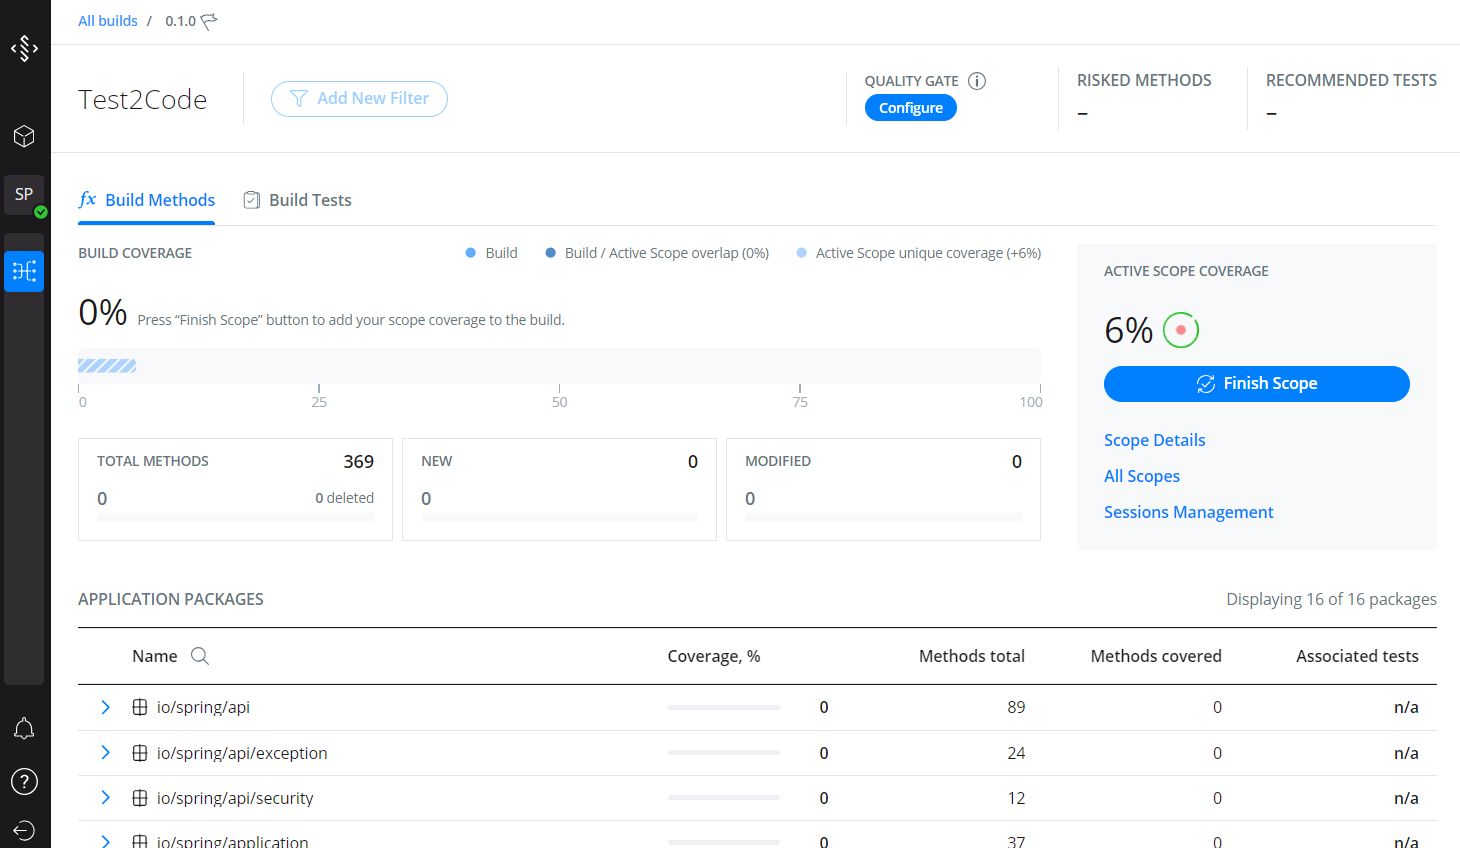
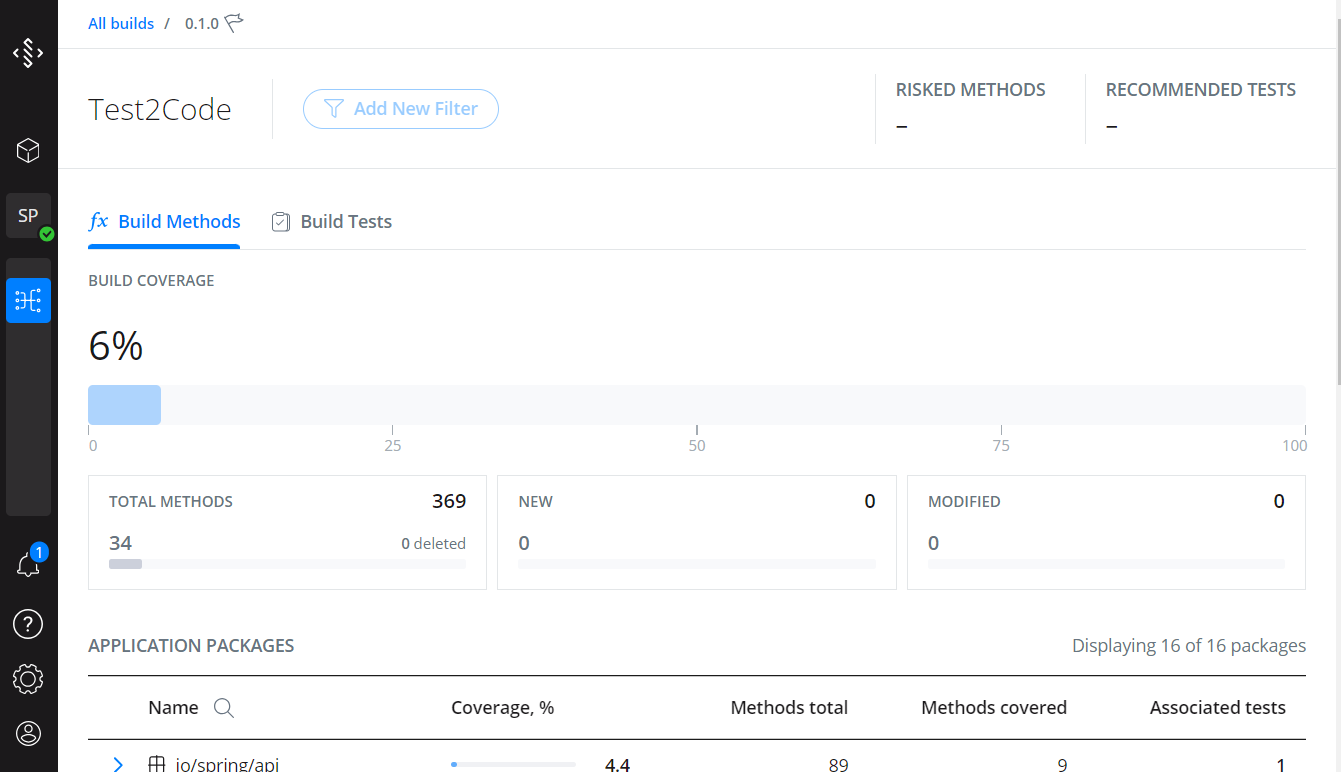
feature: update to initial auth impl release

diff --git a/README.md b/README.md
@@ -68,7 +68,7 @@ cd realworld-java-and-js-coverage
     Example application is available at http://localhost:8080 (wait a few seconds for it to become available)
     ```
 
-    > If your internet connection is too slow example app start might fail.
+    > If your internet connection is too slow, example application might fail to start.
     > 
     > Simply wait for script to finish downloading dependencies
     > 
@@ -81,21 +81,20 @@ cd realworld-java-and-js-coverage
 
 3. Open [Drill4J Admin Panel](http://localhost:8091)
 
-4. You should be greeted with "Welcome to Drill4J" page and a login form. Press "Continue as guest (width admin rights)"
+4. You should be greeted with "Welcome to Drill4J" page and a login form.
 
-    ![login form](./img/image.png)
+    - Enter `admin` in both username and password fields
+    - Press "Sign in" button
 
-5. Close analytics form (it does not really matter wether you agree or not in the demo scenario)
+    ![sign in form](./img/sign-in.png)
+    
+5. Close analytics form (it does not really matter whether you agree or not in the demo scenario)
 
     ![analytics form](./img/image-1.png)
 
-6. You should see empty dashboard with `"Select Agent"` button.
+6. You should see empty dashboard with `"View Agents"` button.
 
-    __IMPORTANT__: If you see `"Add agent"` button instead - wait a few more seconds for the Drill4J to detect application agents
-
-    Press "Select Agent" button.
-
-    ![select agent button view](./img/image-2.png)
+    ![dashboard with select agent](./img/image-2.png)
 
 7. Sidebar area should expand and present you with a single `realworld-app` entry. Click the expand icon to see individual App Under Test components
     ![apps list](./img/image-3.png)
@@ -107,16 +106,13 @@ cd realworld-java-and-js-coverage
     You'll be navigated to the respective component overview page. Click on "Go to Plugin" button to get to the detailed dashboard.
     ![realworld backend overview page](./img/image-4.png)
 
-9. You should see detailed dashboard view
+9. You should see detailed dashboard view.
     ![detailed dashboard for realworld backend service](./img/image-5.png)
 
-    There is a lot to take in. No need to get into the details yet: 
-    1. At the bottom of the page there is a table with Application packages/classes/methods.
-    2. To the right there is a `Coverage %` indicator, hinting that Drill4J already collected some coverage data during Application Under Test initialization 
-    
-    That should be enough for now. We'll get back here later once more data from initial E2E tests run is available.
+    This page displays metrics for the respective _Application Under Test_, but its not much too look at just yet.
+    First, we have to run tests.
 
-### Run tests for the **1-st** application build
+### Run E2E tests for the **1-st** Application Under Test version
 
 It is time to launch our tests. Since this demo does not have "real" CI/CD environment like Github Actions, TeamCity or even Jenkins we'll have to do it manually
 
@@ -129,29 +125,38 @@ It is time to launch our tests. Since this demo does not have "real" CI/CD envir
 2. Wait for the tests to be executed. It should take from 3 to 5 minutes. Once tests are done you'll see the following log:
     ![tests log](./img/image-7.png)
 
-3. Get back to `spring-realworld-backend` [dashboard page](http://localhost:8091/agents/spring-realworld-backend/plugins/test2code/builds/0.1.0/overview?activeTab=methods)
-    
-4. Press "Finish scope" button
-    ![finish scope button](./img/image-8.png)
-
-5. Modal window with test run statistics will pop up. Press "Finish scope" inside modal to save collected data
-    ![finish scope modal](./img/image-9.png)
-
-    This action is usually automated with call from CI/CD scripts
-
-6. Navigate to `angular-realworld-frontend` [dashboard page](http://localhost:8091/agents/angular-realworld-frontend/plugins/test2code/builds/0.1.0/overview?activeTab=methods) and save data for frontend app as well
-
-    Press "Finish scope"
-
-    Confirm the modal by pressing "Finish scope" button inside modal
-
 ### Analyze collected metrics
 
-You can look through both `spring-realworld-backend` [dashboard page](http://localhost:8091/agents/spring-realworld-backend/plugins/test2code/builds/0.1.0/overview?activeTab=methods) and `angular-realworld-frontend` [dashboard page](http://localhost:8091/agents/angular-realworld-frontend/plugins/test2code/builds/0.1.0/overview?activeTab=methods) to see kind of metrics Drill4J has collected from a sigle test run
+Now lets see metrics Drill4J has collected.
+
+Open the `spring-realworld-backend`'s [dashboard page](http://localhost:8091/agents/spring-realworld-backend/plugins/test2code/builds/0.1.0/overview?activeTab=methods).
+
+1. First metric you see is the overall _Build coverage_ percentage - this indicates to which extent tests has covered our application. The percentage is calculated based on number of _probes_ - the special "counters" inserted by Drill4J agent into application in runtime. The single method will likely have a lot of those, so its a very granular metric.
+
+    ![build coverage percent metric](./img/image-build-coverage-percent.png)
+
+2. Next you can see _Total Methods_ number and how much of those methos where actually covered. Thats a slightly different view at the same metric.
+
+3. Then, there is a _Application Packages_ table. It contains a detailed coverage report for all packages, classes and methods. You can expand each respective entry to see metrics in finer detail.
+    - Notice that you can sort packages by coverage by clicking "Coverage" column title. That sorts packages form least covered to most covered. Its a good starting point to analyze which areas of application require more testing or lack it completely.
+
+    ![application packages table](./img/image-application-packages-table.png)
+
+4. Lastly, there is a _Build Tests_ [tab](http://localhost:8091/agents/spring-realworld-backend/plugins/test2code/builds/0.1.0/overview?activeTab=tests). It presents you with the test-centric view of the collected metrics.
+    - Just like with the previous table, click _Coverage_ column to enable sorting. This functionality can be useful to detect wich tests might've become obsolete (if their coverage is marginally low, or even 0%)  
+
+    ![build tests tab](./img/image-build-tests-tab.png)
+
+> You can see all of the same metrics for the frontend application on `angular-realworld-frontend`'s [dashboard page](http://localhost:8091/agents/angular-realworld-frontend/plugins/test2code/builds/0.1.0/overview?activeTab=methods) 
+
+
+These are basic metrics Drill4J can infer from a single test run. But more interesting metrics arise when Drill4J detects change in the application.
+
+For that to happen, lets deploy new _Application Under Test_ version
 
 ### Deploy the **2-nd** application build
 
-It is time to deploy new Application Under Test build. This steps corresponds to such events as push to repository/launch of the automation tests that check the new app version.
+It is time to deploy new Application Under Test build. Think of it as a push to repository or a pull request with the corresponding test environment update.
 
 1. Deploy the 2-nd application build
 
@@ -160,23 +165,44 @@ It is time to deploy new Application Under Test build. This steps corresponds to
     ```
 
 2. Wait for the "New build" notification to appear on the Bell icon in the bottom-left corner of the page
+
     ![bell icon](./img/image-10.png)
 
 3. Click on the "Go to Build" button to explore the new build. See how Drill4J detected new, modified and deleted methods
+
     ![go to build](./img/image-11.png)
 
-4. You are now presented with key Drill4J metrics, besides _Coverage_: _Risks_ and _Recommended Tests_
-    ![recommended-tests](./img/image-12.png)
+You are now presented with key Drill4J metrics, besides _Coverage_: _Risks_ and _Recommended Tests_
 
-    Simply put, Drill4J tells you which areas of application were change with _Risks_ and tells you how to, likely, do that with _Recommended tests_
+![recommended-tests](./img/image-risks-and-recommended-tests.png)
 
-    To see it for yourself click on each respective number. Proceed when you are ready
+- _Risks_ is a number of methods that were either _Modified_(aka changed) from previous version or are completely _New_. We should probably test them in the first place.
+    - You can click on risks number to see the [exact list of changes](
+http://localhost:8091/agents/spring-realworld-backend/plugins/test2code/builds/0.2.0/risks). After running the tests, you can get back to this page to see, if tests has actually covered any of those.
+
+- _Recommended tests_ is a list of tests that likely to cover _Modified_ methods. Drill4J "knows" that because it uses data from test runs for previous application versions.
+
+This particular page displays recommended tests just for the _backend_ service, but we'll make use of test recommendation for the application as a whole in the next step.
 
 ### Run tests for the **2-nd** application build
 
-It is time to use power of _Recommended Test_ feature. You'll see how Drill4J allows to automatically select minimal test suite
+It is time to use power of _Recommended Test_ feature. You'll see how Drill4J allows to automatically select minimal test suite.
 
-1. Run tests by
+Since we are running E2E tests we'd like to have the exhaustive list, including tests that will cover both [risks of _frontend_](http://localhost:8091/agents/angular-realworld-frontend/plugins/test2code/builds/0.2.0/risks) and _backend_ services.
+
+For that, we can navigate to so called [_group_ page](http://localhost:8091/groups/realworld-app/plugins/test2code) that displays metrics for the whole application.
+
+![group page](./img/image-recommended-tests-group.png)
+
+Click on _Recommended tests_ number.
+
+![recommended tests curl](./img/image-recommende-tests-curl.png)
+
+That opens panel with example call to _Drill4J API_. 
+
+We've already created `test2run.gradle` task that calls this HTTP endpoint, parses the JSON response with the list of recommended tests and only launches required ones.
+
+1. Lets run those tests
 
     ```shell
     ./gradlew clean :build2:test2run
@@ -186,35 +212,15 @@ It is time to use power of _Recommended Test_ feature. You'll see how Drill4J al
 
 3. Once again, get back to `spring-realworld-backend` [dashboard page](http://localhost:8091/agents/spring-realworld-backend/plugins/test2code/builds/0.1.0/overview?activeTab=methods) and `angular-realworld-frontend` [dashboard page](http://localhost:8091/agents/angular-realworld-frontend/plugins/test2code/builds/0.1.0/overview?activeTab=methods)
 
-4. Take a look at _Risks_ metric. Now press `Finish scope` button, confirm modal window and see how number of _Risks_ decreases
+4. Take a look at _Risks_ metric. See how number of _Risks_ decreases, but there are still some left.
+    
+    ![risks decreased](./img/image-risks-decreased.png)
 
-    ![risks covered](./img/image-13.png)
+    Drill4J checks whether executed tests actually covered changed introduced with the new _Application Under Test_ version
 
-    Drill4J checks whether executed tests actually covered changed introduce with new App Under Test versions
+    You can click on the _Risks_ number, to see [which risks were not covered](http://localhost:8091/agents/spring-realworld-backend/plugins/test2code/builds/0.2.0/risks) 
 
-    You can click on the _Risks_ again, to see to which degree they were covered
-
-    ![risks after scope finish](./img/image-17.png)
-
-    As you can tell, this is a good ground to build your Quiality Gates from
-
-5. Besides that, detailed coverage report is now available at the bottom of the page:
-
-    Click on column headers to sort entries in the table. This is a great way to find blind spots in App Under Test test coverage
-
-    ![coverage table](./img/image-14.png)
-
-6. Another great feature is `"Test"` tab
-
-    It presents the same data from testing perspective.
-
-    ![build tests tab](./img/image-15.png)
-
-    One can see how broadly and deeply each test has covered the application - with `Coverage %` and `Covered Methods` metrics for each test
-
-    ![build tests table](./img/image-16.png)
-
-    It can not only serves as a basis for _Recommended Tests_ metric, but also provides common communication ground for the whole team. Everyone can see which tests were executed and if they actually covered the expected features.  
+    This is a good metric to build Quiality Gates from. If by the end of the testing the number of _Risks_ reached `0` you can confidently tell you have checked all changes one way or the other.
 
 ## Finishing demo
 
